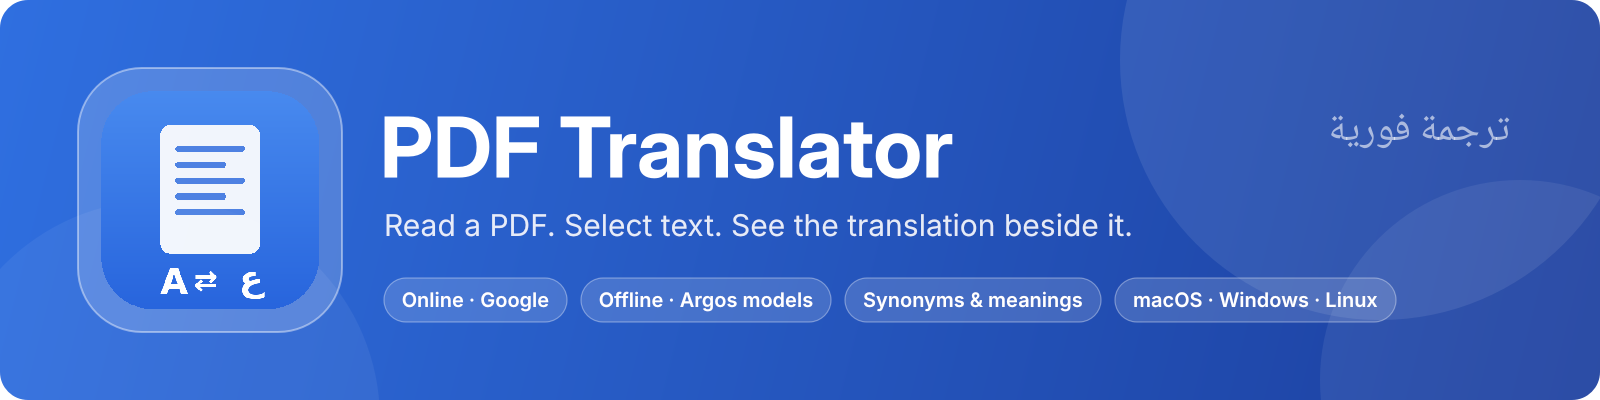
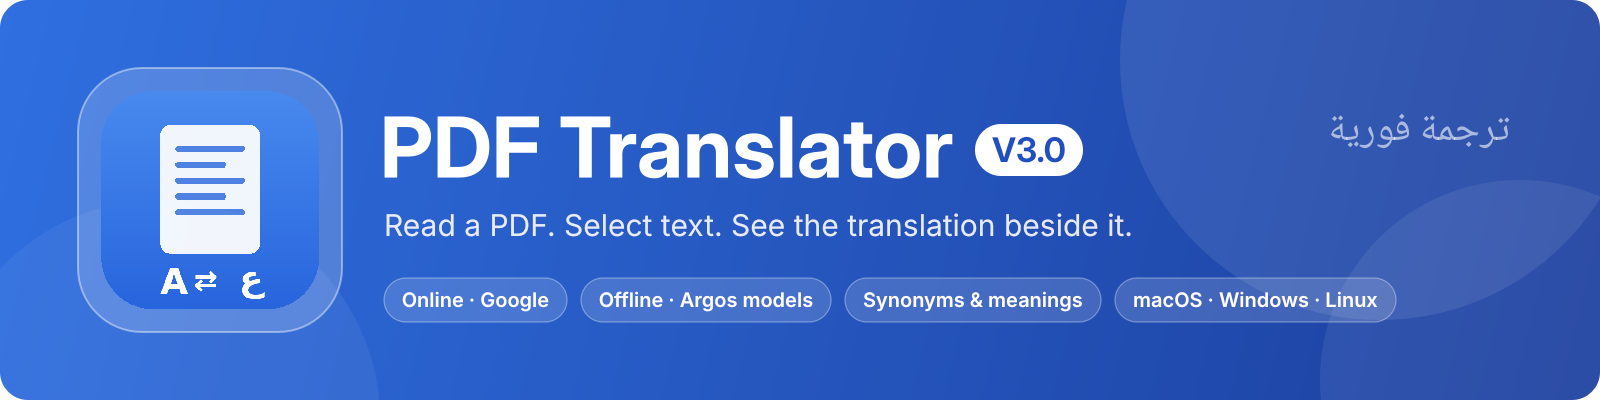
Name the app PDF Translator V3.0 (version 3.0.0)

Changed region(s): [[0.5938, 0.3, 0.6875, 0.45]]

diff --git a/pdftranslator/__init__.py b/pdftranslator/__init__.py
@@ -1,4 +1,4 @@
 """PDF Translator: read a PDF on the left, see its translation on the right."""
 
-__version__ = "1.0.0"
-APP_NAME = "PDF Translator"
+__version__ = "3.0.0"
+APP_NAME = "PDF Translator V3.0"

diff --git a/README.md b/README.md
@@ -1,5 +1,5 @@
 <p align="center">
-  <img src="docs/banner.png" alt="PDF Translator" width="100%">
+  <img src="docs/banner.png" alt="PDF Translator V3.0" width="100%">
 </p>
 
 <p align="center">
